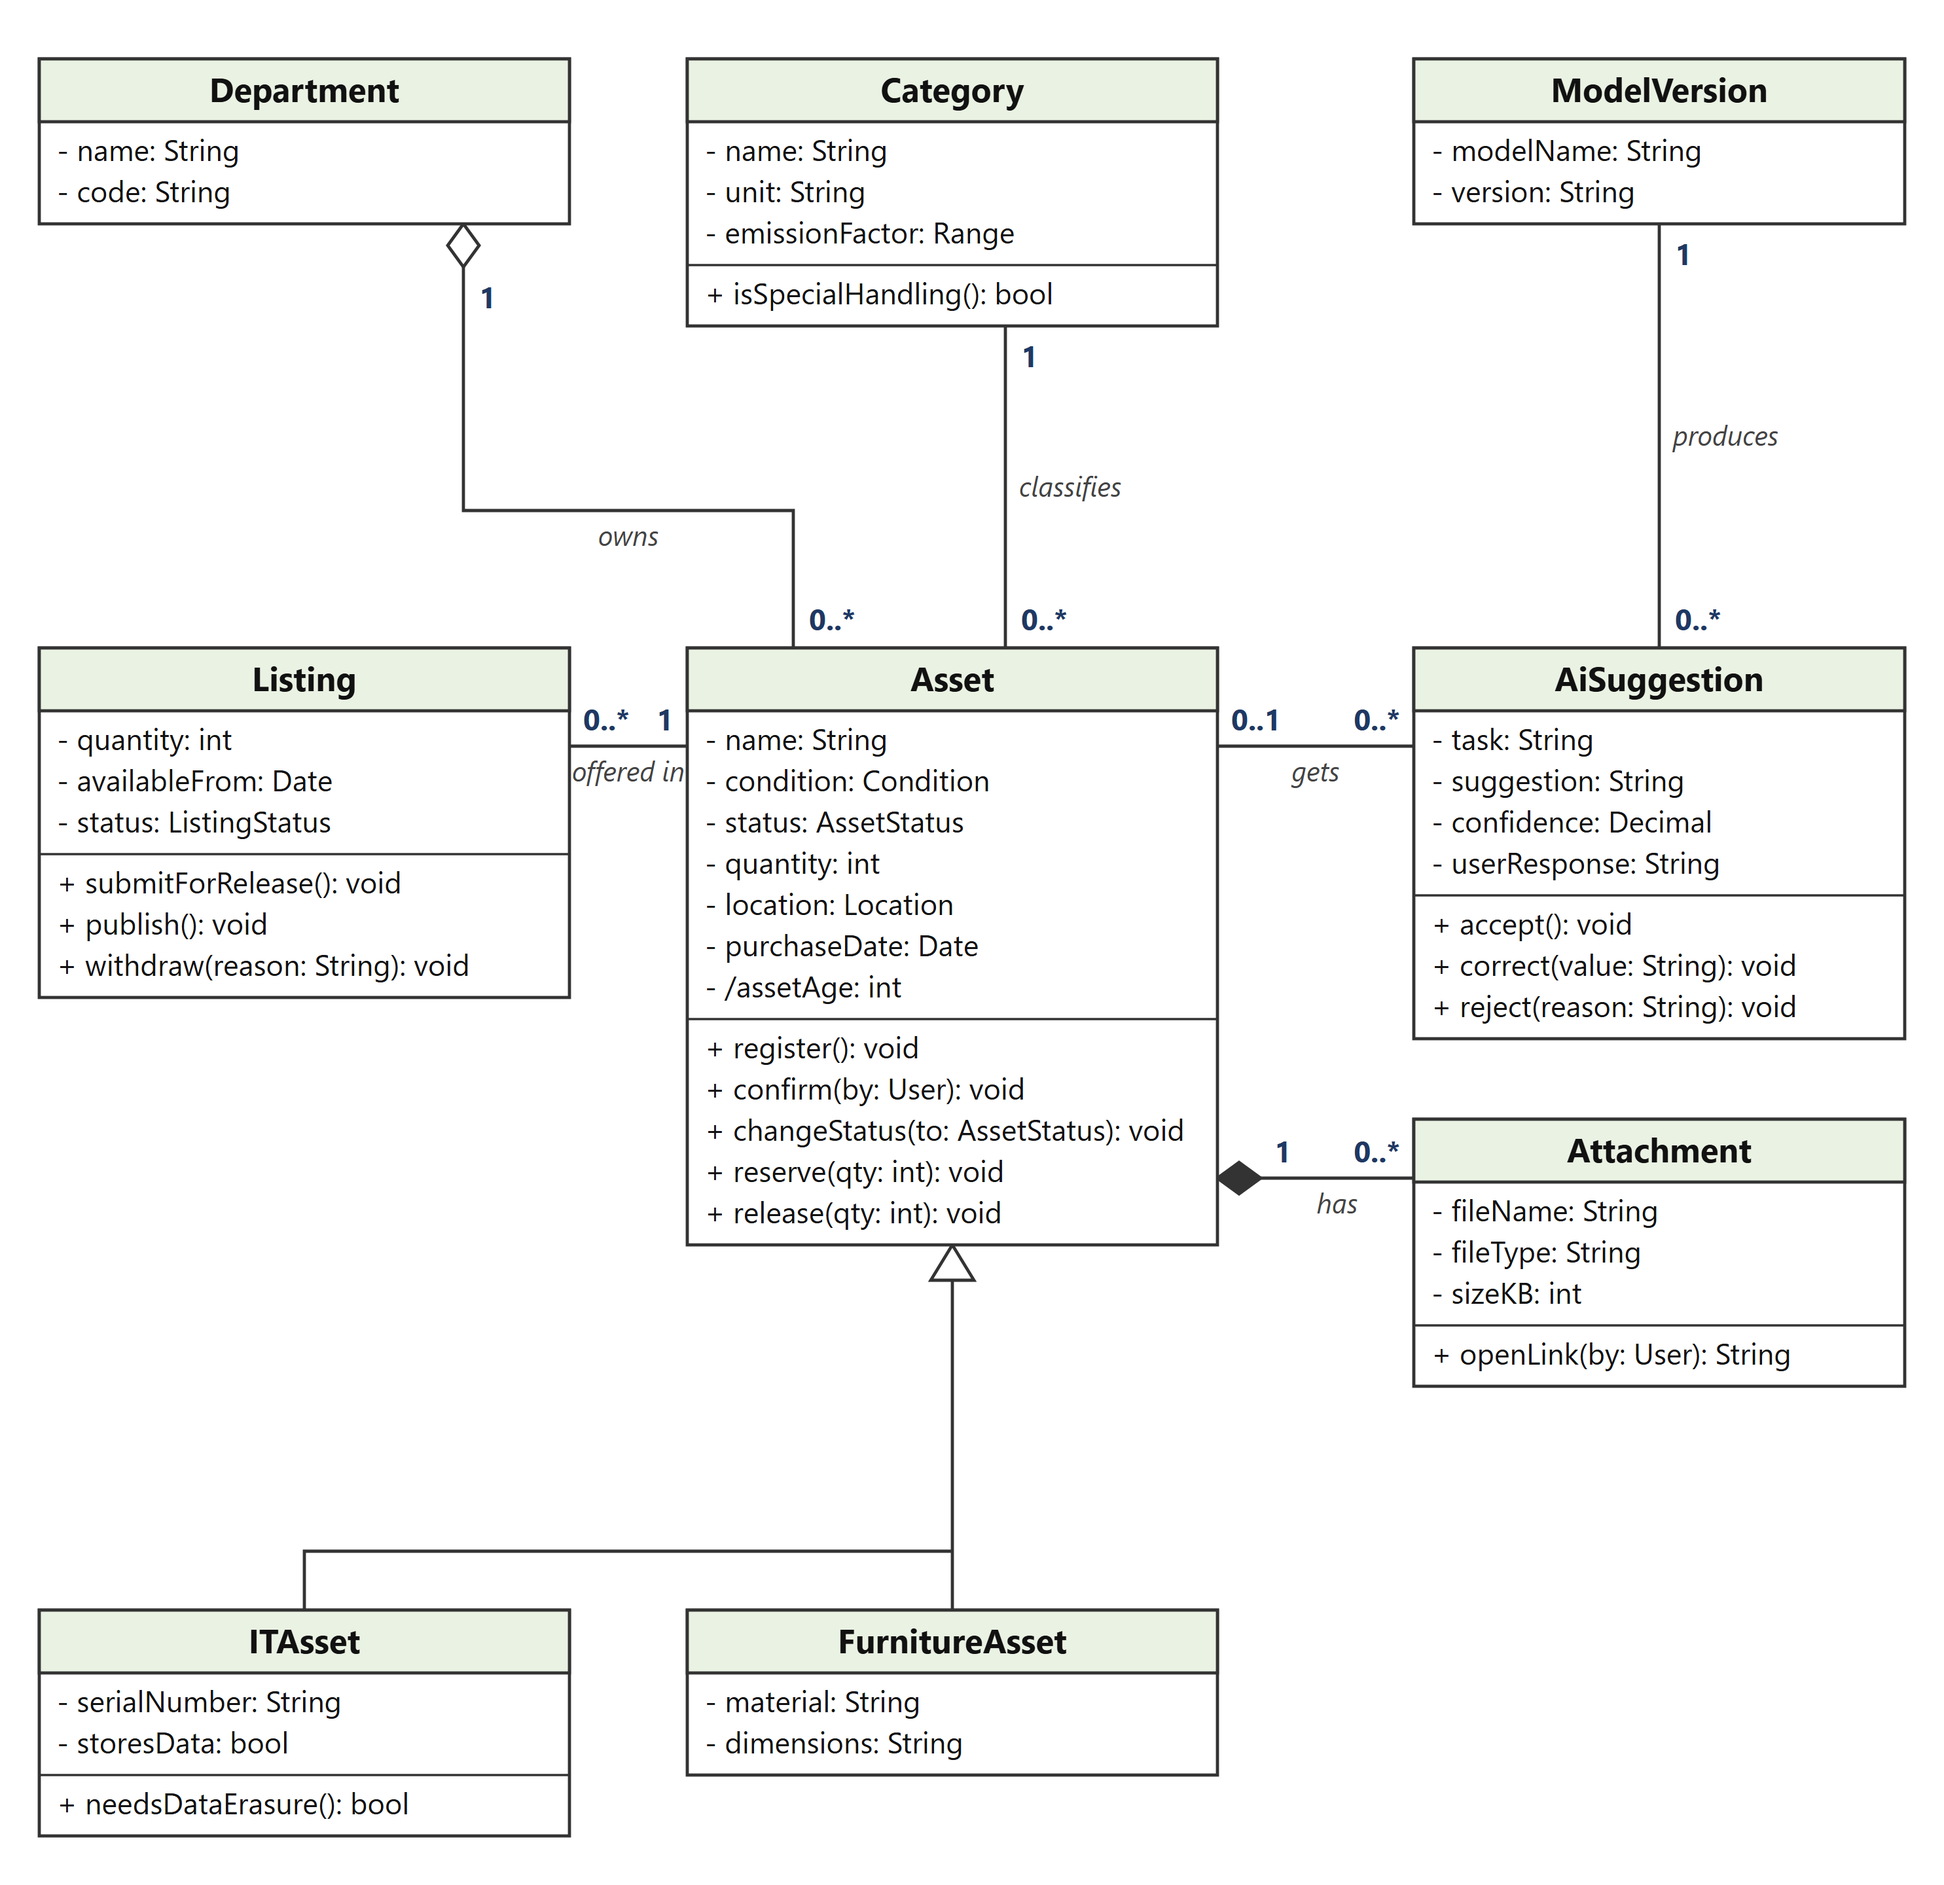
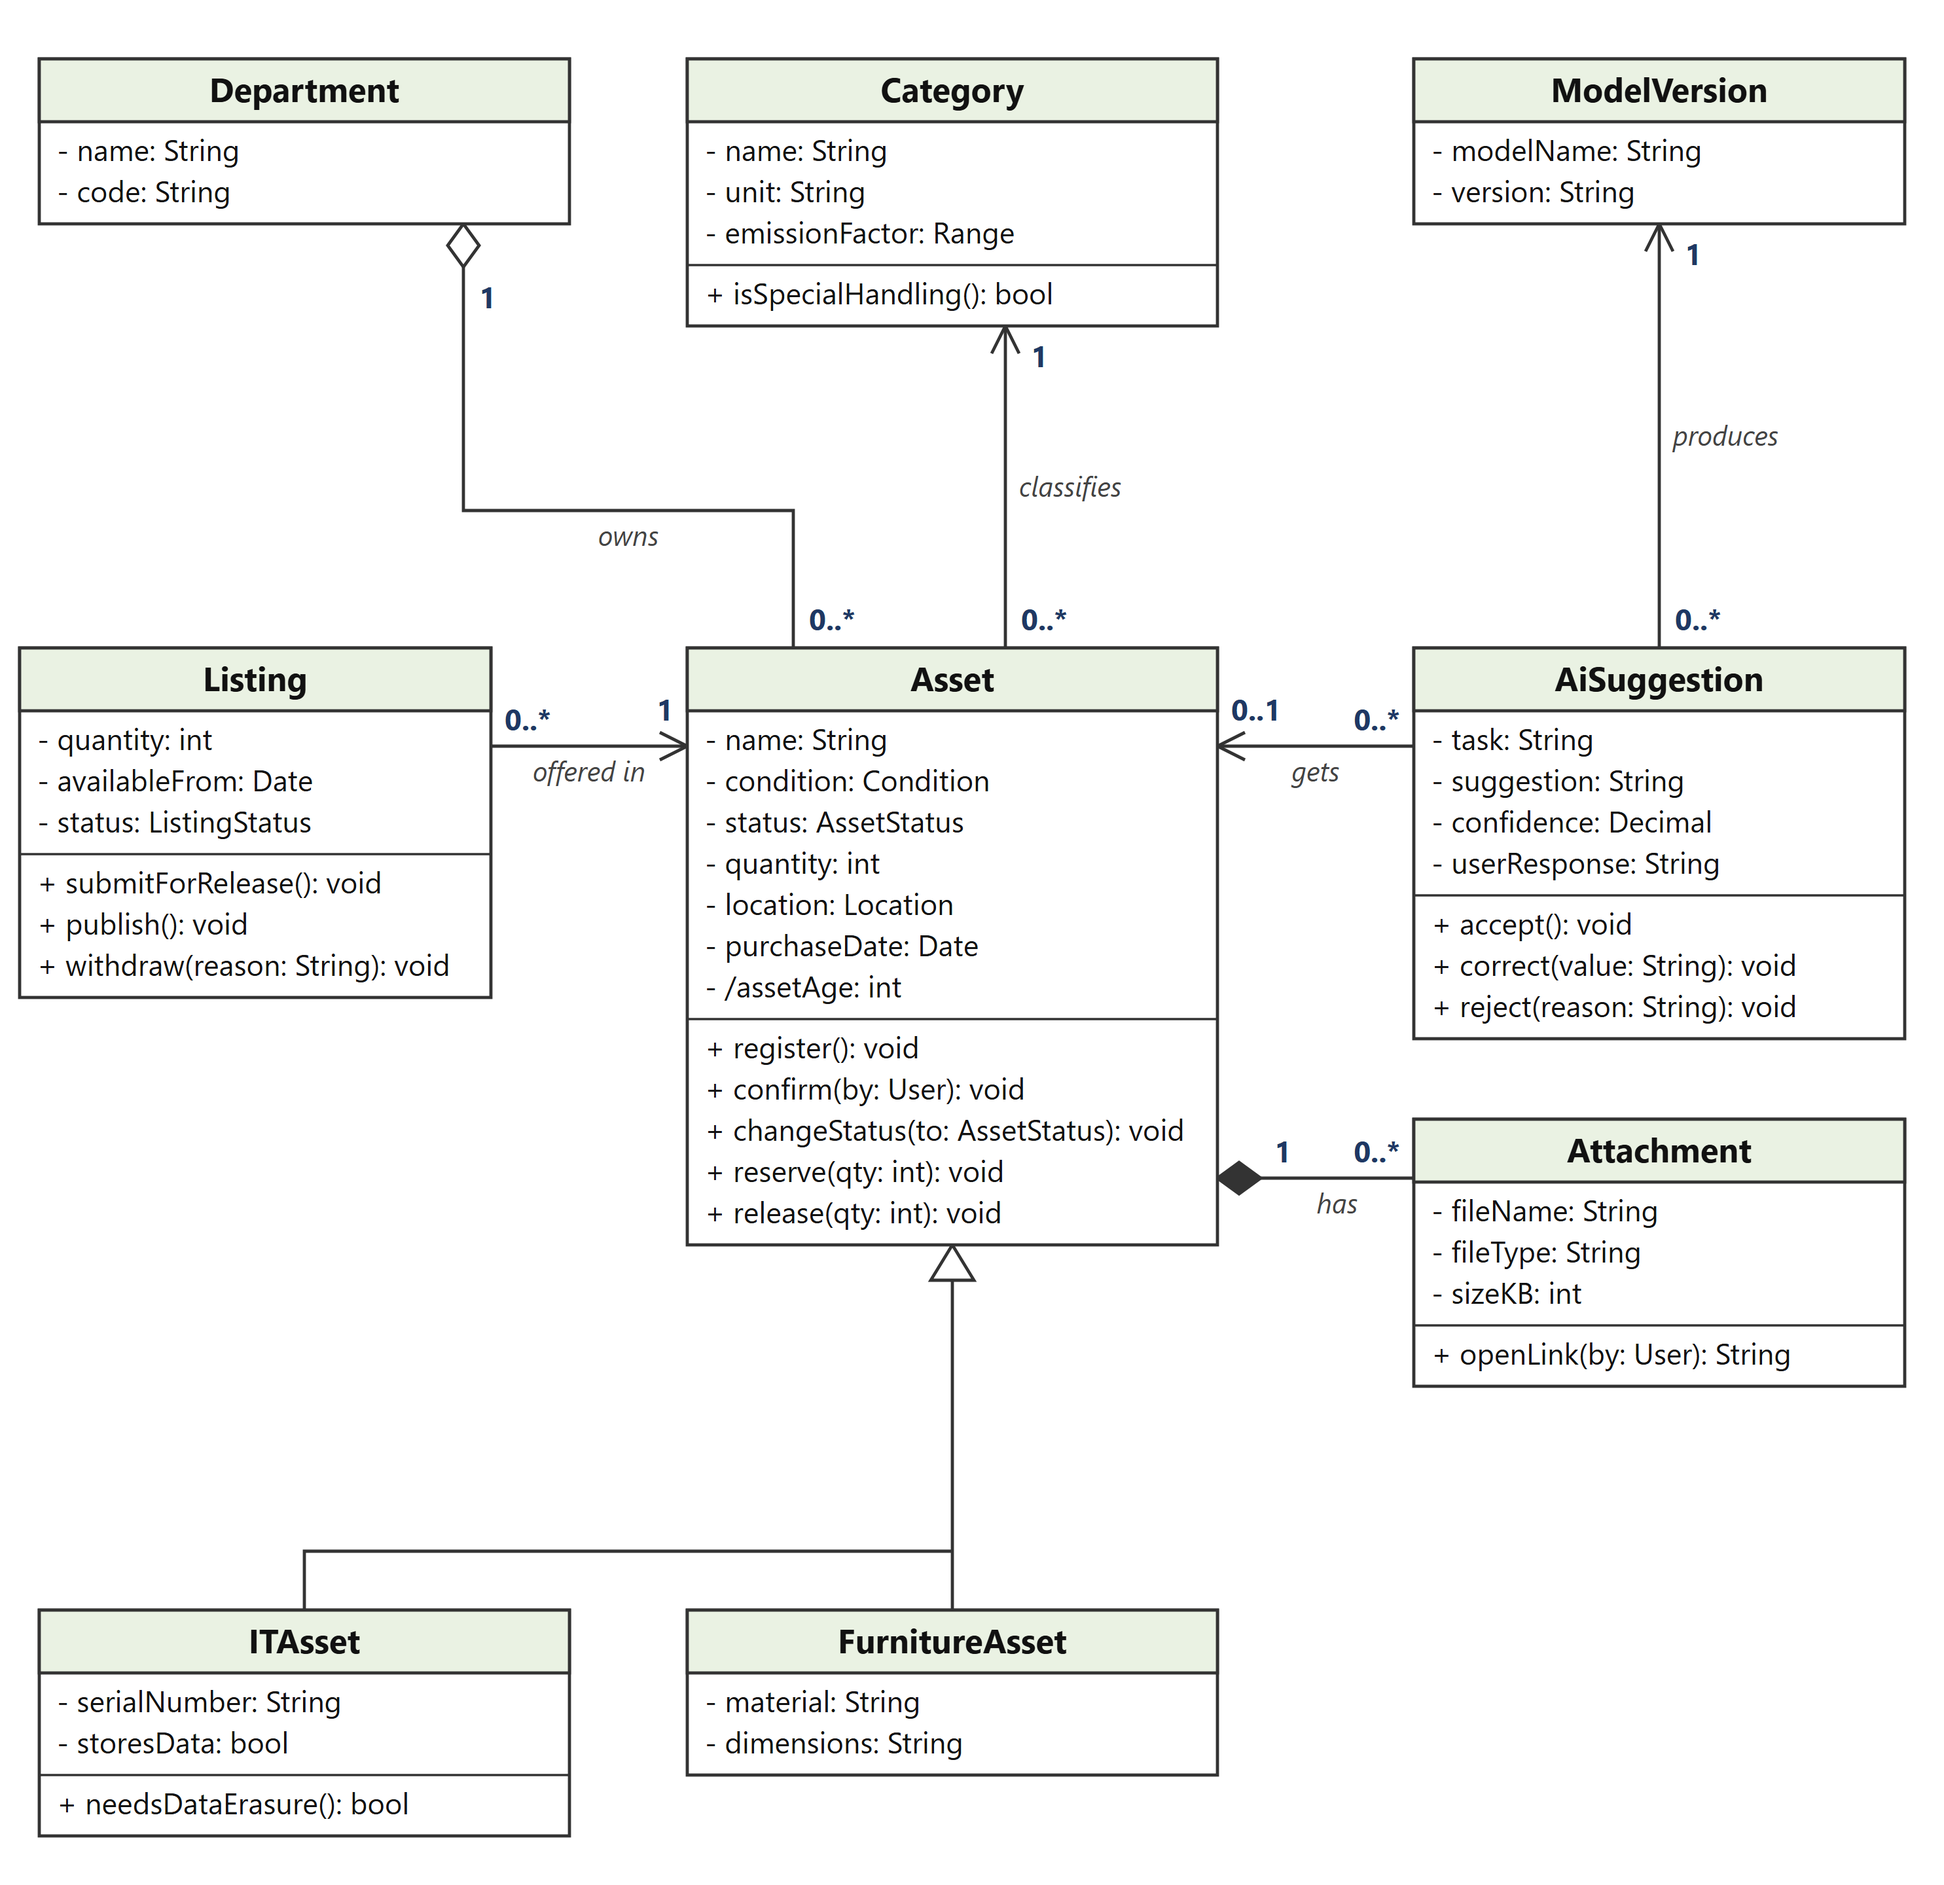
docs(phase45): add navigability to the class diagrams and mark location as a composite attribute (sections 8 and 10)

Changed region(s): [[0.0, 0.3438, 0.2788, 0.5312], [0.2478, 0.3438, 0.3407, 0.4375], [0.6195, 0.375, 0.6505, 0.4062]]

diff --git a/docs/phase45/diagrams/class-state.js b/docs/phase45/diagrams/class-state.js
@@ -86,7 +86,9 @@ function assoc(boxes, e) {
   const pts = route(p1, e.as, p2, e.bs, e.mid);
   s += poly(pts);
   const q = pt(A, e.as, e.af);
-  s += mult(e.kind ? dm2(q, e.as) : q, e.as, e.ma, e.belowA) + mult(p2, e.bs, e.mb, e.belowB);
+  // a plain association is navigable toward A, the class the other one refers to
+  if (!e.kind) s += navArrow(q, e.as);
+  s += mult(e.kind ? dm2(q, e.as) : nudge(q, e.as, e.belowA), e.as, e.ma, e.belowA) + mult(p2, e.bs, e.mb, e.belowB);
   if (e.name) {
     let best = -1, bi = 0;
     for (let i = 0; i < pts.length - 1; i++) {
@@ -105,6 +107,18 @@ function assoc(boxes, e) {
 function dm2(p, side) {
   const d = { top: [0, -1], bottom: [0, 1], left: [-1, 0], right: [1, 0] }[side];
   return { x: p.x + d[0] * 22, y: p.y + d[1] * 22 };
+}
+// open arrowhead touching the box edge (navigability)
+function navArrow(p, side) {
+  const d = { top: [0, -1], bottom: [0, 1], left: [-1, 0], right: [1, 0] }[side];
+  const L = 14, W = 7, px = -d[1], py = d[0];
+  const b = { x: p.x + d[0] * L, y: p.y + d[1] * L };
+  return `<polyline points="${b.x + px * W},${b.y + py * W} ${p.x},${p.y} ${b.x - px * W},${b.y - py * W}" fill="none" stroke="#333" stroke-width="1.6"/>`;
+}
+// multiplicity next to an arrowhead moves clear of it
+function nudge(p, side, below) {
+  if (side === "top" || side === "bottom") return { x: p.x + 5, y: p.y };
+  return { x: p.x, y: p.y + (below ? 5 : -5) };
 }
 // generalization: subclasses joined to one hollow triangle under the superclass
 function generalization(sup, subs, joinY) {
@@ -144,7 +158,7 @@ const C1 = 20, C2 = 350, C3 = 680;
   const D = cls("Department", C1, 30, ["- name: String", "- code: String"], []);
   const Cat = cls("Category", C2, 30, ["- name: String", "- unit: String", "- emissionFactor: Range"], ["+ isSpecialHandling(): bool"]);
   const MV = cls("ModelVersion", 720, 30, ["- modelName: String", "- version: String"], [], { w: 250 });
-  const L = cls("Listing", C1, 330, ["- quantity: int", "- availableFrom: Date", "- status: ListingStatus"], ["+ submitForRelease(): void", "+ publish(): void", "+ withdraw(reason: String): void"]);
+  const L = cls("Listing", 10, 330, ["- quantity: int", "- availableFrom: Date", "- status: ListingStatus"], ["+ submitForRelease(): void", "+ publish(): void", "+ withdraw(reason: String): void"], { w: 240 });
   const A = cls("Asset", C2, 330, ["- name: String", "- condition: Condition", "- status: AssetStatus", "- quantity: int", "- location: Location", "- purchaseDate: Date", "- /assetAge: int"], ["+ register(): void", "+ confirm(by: User): void", "+ changeStatus(to: AssetStatus): void", "+ reserve(qty: int): void", "+ release(qty: int): void"]);
   const AS = cls("AiSuggestion", 720, 330, ["- task: String", "- suggestion: String", "- confidence: Decimal", "- userResponse: String"], ["+ accept(): void", "+ correct(value: String): void", "+ reject(reason: String): void"], { w: 250 });
   const IT = cls("ITAsset", C1, 820, ["- serialNumber: String", "- storesData: bool"], ["+ needsDataErasure(): bool"]);
@@ -170,7 +184,7 @@ const C1 = 20, C2 = 350, C3 = 680;
   const R = cls("ResourceRequest", C3, 190, ["- status: RequestStatus", "- requiredBy: Date"], ["+ submit(): void", "+ approve(by: User): void", "+ cancel(reason: String): void", "+ expire(): void"]);
   const T = cls("Transfer", C2, 480, ["- quantity: int", "- toLocation: Location", "- plannedDate: Date", "- status: TransferStatus"], ["+ handOver(): void", "+ confirmReceipt(): void", "+ dispute(note: String): void", "+ cancel(reason: String): void"]);
   const RS = cls("RequestSpecification", C3, 480, ["- specifications: String", "- quantity: int", "- minCondition: Condition", "- urgency: Urgency"], []);
-  const Lr = cls("Listing", C1, 820, [], [], { ref: true });
+  const Lr = cls("Listing", C1, 820, [], [], { ref: true, w: 230 });
   const Res = cls("Reservation", C2, 820, ["- quantity: int", "- expiresAt: DateTime", "- status: ReservationStatus"], ["+ confirm(by: User): void", "+ cancel(reason: String): void", "+ expire(): void"]);
   classFigure("class-requests.svg", 1010, bottom(Res) + 25, [Ar, MV, Ur, M, R, T, RS, Lr, Res], [
     { a: "Asset", as: "bottom", af: 0.5, b: "MatchRecommendation", bs: "left", bf: { abs: 250 }, ma: "1", mb: "0..*", name: "matched in", seg: 0 },
@@ -181,7 +195,7 @@ const C1 = 20, C2 = 350, C3 = 680;
     { a: "Asset", as: "bottom", af: 0.25, b: "Transfer", bs: "left", bf: { abs: 560 }, ma: "1", mb: "0..*", name: "moved by", seg: 0 },
     { a: "ResourceRequest", as: "left", af: { abs: 335 }, b: "Transfer", bs: "right", bf: { abs: 560 }, mid: 650, ma: "1", mb: "0..*", name: "fulfilled by", seg: 1, rot: true },
     { a: "Reservation", as: "top", af: 0.5, b: "Transfer", bs: "bottom", bf: 0.5, ma: "1", mb: "0..1", name: "becomes" },
-    { a: "Listing", as: "right", af: { abs: 870 }, b: "Reservation", bs: "left", bf: { abs: 870 }, ma: "1", mb: "0..*", name: "held by" },
+    { a: "Listing", as: "right", af: { abs: 845 }, b: "Reservation", bs: "left", bf: { abs: 845 }, ma: "1", mb: "0..*", name: "held by" },
     { a: "ResourceRequest", as: "right", af: { abs: 300 }, b: "Reservation", bs: "right", bf: { abs: 900 }, mid: 985, ma: "1", mb: "0..*", name: "places", seg: 1, rot: true },
   ]);
 }

diff --git a/docs/phase45/diagrams/er-diagrams.js b/docs/phase45/diagrams/er-diagrams.js
@@ -151,7 +151,7 @@ const ref = (name, x, y, pk, w) => box(name, x, y, ["PK " + pk], { ref: true, w 
 // ---------- Figure 8.3: assets, requests and matching ----------
 {
   const Cat = box("Category", C2, 30, ["PK categoryId", "name", "unit", "emissionFactor"]);
-  const A = box("Asset", C1, 240, ["PK assetId", "FK ownerDepartmentId", "FK categoryId", "FK custodianId", "name", "condition", "status", "quantity", "location", "assetAge (derived)"]);
+  const A = box("Asset", C1, 240, ["PK assetId", "FK ownerDepartmentId", "FK categoryId", "FK custodianId", "name", "condition", "status", "quantity", "location (composite)", "assetAge (derived)"]);
   const MV = box("ModelVersion", C2, 240, ["PK modelVersionId", "task", "modelName", "version"]);
   const R = box("ResourceRequest", C3, 240, ["PK requestId", "FK requesterId", "FK categoryId", "quantity", "requiredBy", "status"]);
   const M = box("MatchRecommendation", C2, 480, ["PK matchId", "FK assetId", "FK requestId", "FK modelVersionId", "score", "confidence", "explanation"]);

diff --git a/docs/phase45/sections/08-sultan-data-model.md b/docs/phase45/sections/08-sultan-data-model.md
@@ -27,8 +27,8 @@ These design choices explain the diagrams:
 - **The final approver.** approverId in Transfer is the user who gave the final approval. Every stage before it is stored in Approval, following Table 5.2 of the SRS.
 - **Transfer details.** Transfer records the releasing and receiving departments, the receiving custodian, the new location, the planned date and the delivery arrangement (FR-11.1). It also keeps assetId and requestId, which its Reservation already links to. These are copies for fast lookup, and they must match the reservation. The lab diagram has them too.
 - **AI suggestions.** Every AI output that is not a match is kept in AiSuggestion: category suggestions, sustainable-action advice, assistant answers and report drafts. Each row keeps its confidence, explanation, model version and the user's response (AI-12). assetId is filled only when the suggestion is about one asset.
-- **Attachments.** Photos and documents for assets, transfers, inspections, repairs and end-of-life actions are kept in Attachment, with one owner for each file (FR-04.1, FR-11.1, FR-12.1). The file itself is in storage, and the table keeps its key (section 6.4).
-- **Location and asset age.** location is made of campus, building and room. assetAge is not stored. It is worked out from purchaseDate and today's date.
+- **Attachments.** Photos and documents for assets, transfers, inspections, repairs and end-of-life actions are kept in Attachment, with one owner for each file (FR-04.1, FR-11.1, FR-12.1). The file itself is in storage, and the table keeps its key (section 6.4). This is also how one asset keeps several photos. Attachment has its own key and is not a weak entity, because a file can belong to five kinds of record, not to one owner.
+- **Location and asset age.** location is a composite attribute made of campus, building and room. assetAge is a derived attribute and is not stored. It is worked out from purchaseDate and today's date.
 
 ## 8.2 Relationships and Cardinalities
 

diff --git a/docs/phase45/sections/10-sultan-class-and-state.md b/docs/phase45/sections/10-sultan-class-and-state.md
@@ -11,8 +11,9 @@ We use the notation from the lab slides:
 - **Composition (filled diamond).** A user's role assignments, a request's specification and an asset's attachments cannot exist without their owner. RequestSpecification is kept inside the ResourceRequest table, so it is not a separate entity in section 8. Attachments of transfers, inspections, repairs and end-of-life actions work the same way (Table 8.1, rows 41 to 45).
 - **Generalization (hollow triangle).** ITAsset and FurnitureAsset are kinds of Asset with extra attributes. ITAsset knows whether the device stores data, which decides if a data-erasure record is needed (BR-09).
 - **Derived attribute.** /assetAge is worked out from purchaseDate and is not stored.
+- **Navigability (open arrow).** The arrow points to the class that the other class refers to. For example, a ResourceRequest knows the User who submitted it, so the arrow on "submits" points to User. Each arrow follows a foreign key in section 8.
 
-Condition is an enumeration with the values New, Good, Fair, Poor and Not working (FR-04.1). AssetStatus, ListingStatus, RequestStatus, ReservationStatus, TransferStatus, WorkOrderStatus, EndOfLifeStatus and ApprovalStatus hold the state codes from SRS section 4.1. Sections 10.2 to 10.5 show four of them.
+Location is a value made of campus, building and room. Condition is an enumeration with the values New, Good, Fair, Poor and Not working (FR-04.1). AssetStatus, ListingStatus, RequestStatus, ReservationStatus, TransferStatus, WorkOrderStatus, EndOfLifeStatus and ApprovalStatus hold the state codes from SRS section 4.1. Sections 10.2 to 10.5 show four of them.
 
 ![Figure 10.1 Class diagram: people and access](images/class-people.png)
 
